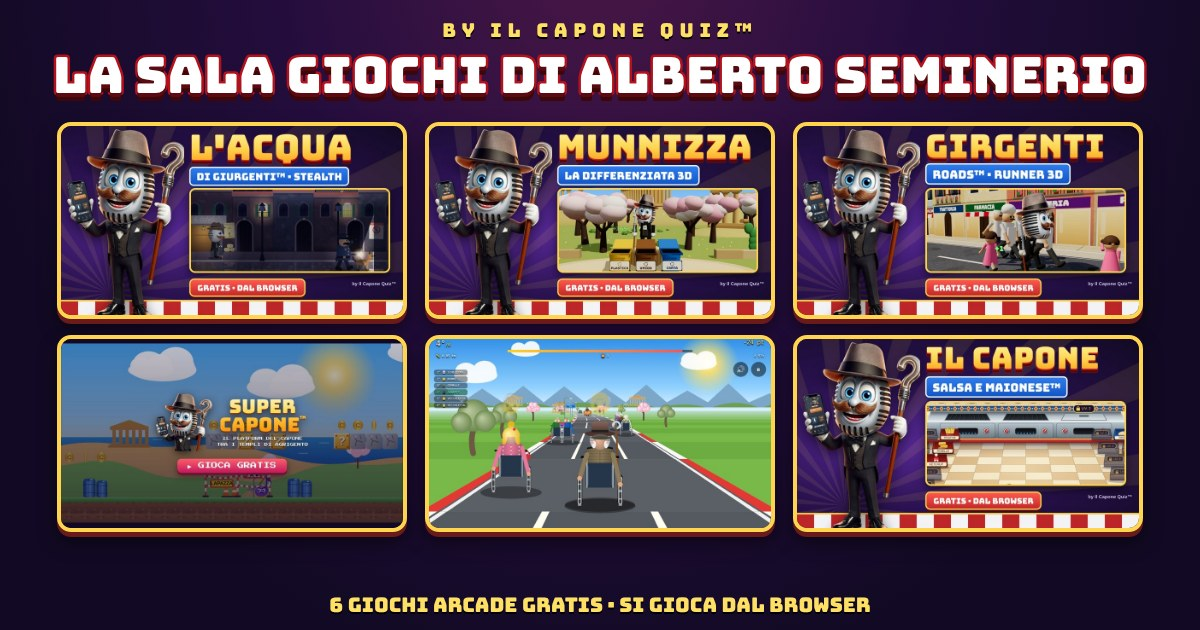
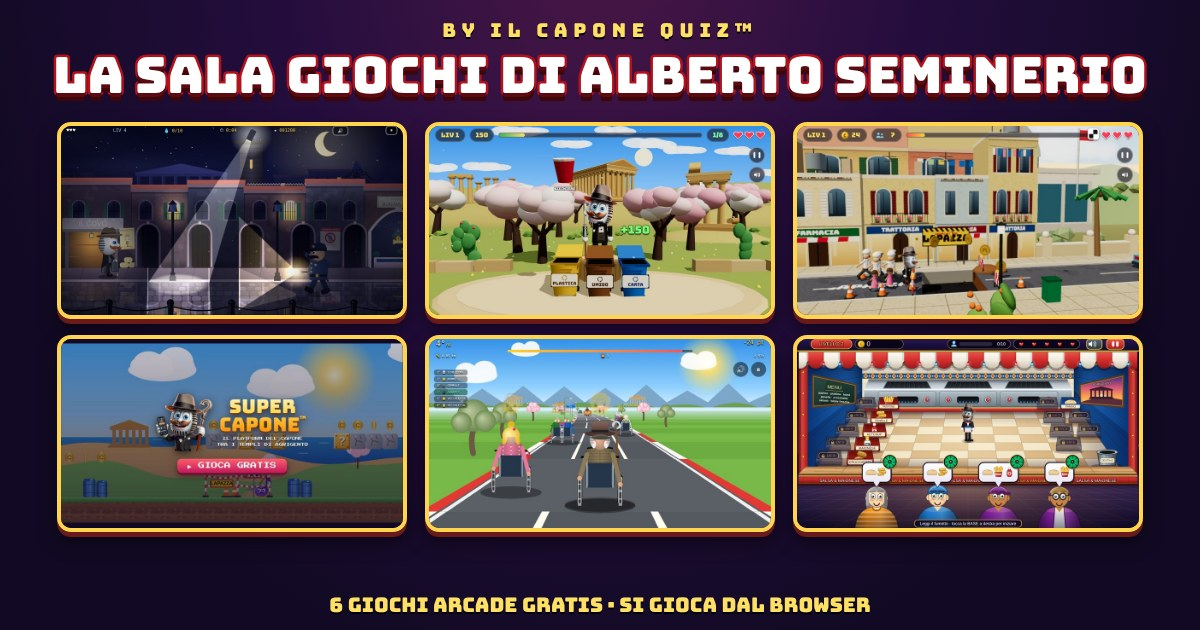
Add files via upload

diff --git a/index.html b/index.html
@@ -13,14 +13,15 @@
 <meta property="og:description" content="6 giochi arcade gratis, da giocare dal browser: stealth di notte, differenziata 3D, runner 3D, platform, corse in sedia a rotelle e il furgone dei panini del Capone.">
 <meta property="og:url" content="https://salagiochi.ilcaponequiz.win/"><meta property="og:image" content="https://salagiochi.ilcaponequiz.win/og-sala.jpg"><meta property="og:image:width" content="1200"><meta property="og:image:height" content="630"><meta property="og:image:alt" content="La sala giochi di Alberto Seminerio, by Il Capone Quiz: i 6 giochi arcade">
 <meta name="twitter:card" content="summary_large_image"><meta name="twitter:title" content="La sala giochi di Alberto Seminerio – giochi arcade gratis"><meta name="twitter:description" content="6 giochi arcade gratis da giocare dal browser."><meta name="twitter:image" content="https://salagiochi.ilcaponequiz.win/og-sala.jpg">
-<script type="application/ld+json">{"@context": "https://schema.org", "@type": "CollectionPage", "name": "La sala giochi di Alberto Seminerio", "url": "https://salagiochi.ilcaponequiz.win/", "inLanguage": "it", "description": "Tutti i giochi arcade gratis di Alberto Seminerio, by Il Capone Quiz.", "publisher": {"@type": "Person", "name": "Alberto Seminerio", "url": "https://albertoseminerio.com"}, "isPartOf": {"@type": "WebSite", "name": "Il Capone Quiz", "url": "https://ilcaponequiz.win"}, "mainEntity": {"@type": "ItemList", "itemListElement": [{"@type": "ListItem", "position": 1, "item": {"@type": "VideoGame", "name": "L'acqua di Giurgenti", "url": "https://acquadigiurgenti.ilcaponequiz.win/", "image": "https://salagiochi.ilcaponequiz.win/img/acqua-di-giurgenti.jpg", "description": "Gioco stealth di notte ad Agrigento: il Capone ruba l'acqua alla fontana Bonamuruni sotto gli occhi delle guardie. Classifica mensile mondiale!", "genre": "Arcade", "inLanguage": "it", "applicationCategory": "Game", "operatingSystem": "Web browser", "author": {"@type": "Person", "name": "Alberto Seminerio"}, "offers": {"@type": "Offer", "price": "0", "priceCurrency": "EUR"}}}, {"@type": "ListItem", "position": 2, "item": {"@type": "VideoGame", "name": "Munnizza", "url": "https://munnizza.ilcaponequiz.win/", "image": "https://salagiochi.ilcaponequiz.win/img/munnizza-v2.jpg", "description": "La differenziata in 3D tra i templi e i mandorli di Agrigento: trascina ogni rifiuto nel cassonetto giusto e scala la top 10 del mese!", "genre": "Arcade", "inLanguage": "it", "applicationCategory": "Game", "operatingSystem": "Web browser", "author": {"@type": "Person", "name": "Alberto Seminerio"}, "offers": {"@type": "Offer", "price": "0", "priceCurrency": "EUR"}}}, {"@type": "ListItem", "position": 3, "item": {"@type": "VideoGame", "name": "Girgenti Roads", "url": "https://girgentiroads.ilcaponequiz.win/", "image": "https://salagiochi.ilcaponequiz.win/img/girgenti-roads-v2.jpg", "description": "Il runner 3D per le strade di Agrigento: salta le buche LAPAZZA, porta in salvo la folla e scala la classifica mondiale!", "genre": "Arcade", "inLanguage": "it", "applicationCategory": "Game", "operatingSystem": "Web browser", "author": {"@type": "Person", "name": "Alberto Seminerio"}, "offers": {"@type": "Offer", "price": "0", "priceCurrency": "EUR"}}}, {"@type": "ListItem", "position": 4, "item": {"@type": "VideoGame", "name": "Super Capone", "url": "https://supercapone.ilcaponequiz.win/", "image": "https://salagiochi.ilcaponequiz.win/img/super-capone.jpg", "description": "Il platform arcade tra i templi di Agrigento: 20 mondi, 8 boss, potenziamenti e classifica mensile!", "genre": "Arcade", "inLanguage": "it", "applicationCategory": "Game", "operatingSystem": "Web browser", "author": {"@type": "Person", "name": "Alberto Seminerio"}, "offers": {"@type": "Offer", "price": "0", "priceCurrency": "EUR"}}}, {"@type": "ListItem", "position": 5, "item": {"@type": "VideoGame", "name": "Formula Anziani", "url": "https://formulaanziani.ilcaponequiz.win/", "image": "https://salagiochi.ilcaponequiz.win/img/formula-anziani.jpg", "description": "La corsa in sedia a rotelle per le strade di Agrigento: sfida i rivali e scala le classifiche!", "genre": "Arcade", "inLanguage": "it", "applicationCategory": "Game", "operatingSystem": "Web browser", "author": {"@type": "Person", "name": "Alberto Seminerio"}, "offers": {"@type": "Offer", "price": "0", "priceCurrency": "EUR"}}}, {"@type": "ListItem", "position": 6, "item": {"@type": "VideoGame", "name": "Il Capone, salsa e maionese", "url": "https://salsaemaionese.ilcaponequiz.win/", "image": "https://salagiochi.ilcaponequiz.win/img/il-capone-salsa-e-maionese-v2.jpg", "description": "Gestisci il furgone dei panini del Capone: ordini, piastra e mance. Quanti clienti riesci a servire?", "genre": "Arcade", "inLanguage": "it", "applicationCategory": "Game", "operatingSystem": "Web browser", "author": {"@type": "Person", "name": "Alberto Seminerio"}, "offers": {"@type": "Offer", "price": "0", "priceCurrency": "EUR"}}}]}}</script>
+<script type="application/ld+json">{"@context": "https://schema.org", "@type": "CollectionPage", "name": "La sala giochi di Alberto Seminerio", "url": "https://salagiochi.ilcaponequiz.win/", "inLanguage": "it", "description": "Tutti i giochi arcade gratis di Alberto Seminerio, by Il Capone Quiz.", "publisher": {"@type": "Person", "name": "Alberto Seminerio", "url": "https://albertoseminerio.com"}, "isPartOf": {"@type": "WebSite", "name": "Il Capone Quiz", "url": "https://ilcaponequiz.win"}, "mainEntity": {"@type": "ItemList", "itemListElement": [{"@type": "ListItem", "position": 1, "item": {"@type": "VideoGame", "name": "L'acqua di Giurgenti", "url": "https://acquadigiurgenti.ilcaponequiz.win/", "image": "https://salagiochi.ilcaponequiz.win/img/acqua-di-giurgenti-v3.jpg", "description": "Gioco stealth di notte ad Agrigento: il Capone ruba l'acqua alla fontana Bonamuruni sotto gli occhi delle guardie. Classifica mensile mondiale!", "genre": "Arcade", "inLanguage": "it", "applicationCategory": "Game", "operatingSystem": "Web browser", "author": {"@type": "Person", "name": "Alberto Seminerio"}, "offers": {"@type": "Offer", "price": "0", "priceCurrency": "EUR"}}}, {"@type": "ListItem", "position": 2, "item": {"@type": "VideoGame", "name": "Munnizza", "url": "https://munnizza.ilcaponequiz.win/", "image": "https://salagiochi.ilcaponequiz.win/img/munnizza-v3.jpg", "description": "La differenziata in 3D tra i templi e i mandorli di Agrigento: trascina ogni rifiuto nel cassonetto giusto e scala la top 10 del mese!", "genre": "Arcade", "inLanguage": "it", "applicationCategory": "Game", "operatingSystem": "Web browser", "author": {"@type": "Person", "name": "Alberto Seminerio"}, "offers": {"@type": "Offer", "price": "0", "priceCurrency": "EUR"}}}, {"@type": "ListItem", "position": 3, "item": {"@type": "VideoGame", "name": "Girgenti Roads", "url": "https://girgentiroads.ilcaponequiz.win/", "image": "https://salagiochi.ilcaponequiz.win/img/girgenti-roads-v3.jpg", "description": "Il runner 3D per le strade di Agrigento: salta le buche LAPAZZA, porta in salvo la folla e scala la classifica mondiale!", "genre": "Arcade", "inLanguage": "it", "applicationCategory": "Game", "operatingSystem": "Web browser", "author": {"@type": "Person", "name": "Alberto Seminerio"}, "offers": {"@type": "Offer", "price": "0", "priceCurrency": "EUR"}}}, {"@type": "ListItem", "position": 4, "item": {"@type": "VideoGame", "name": "Super Capone", "url": "https://supercapone.ilcaponequiz.win/", "image": "https://salagiochi.ilcaponequiz.win/img/super-capone.jpg", "description": "Il platform arcade tra i templi di Agrigento: 20 mondi, 8 boss, potenziamenti e classifica mensile!", "genre": "Arcade", "inLanguage": "it", "applicationCategory": "Game", "operatingSystem": "Web browser", "author": {"@type": "Person", "name": "Alberto Seminerio"}, "offers": {"@type": "Offer", "price": "0", "priceCurrency": "EUR"}}}, {"@type": "ListItem", "position": 5, "item": {"@type": "VideoGame", "name": "Formula Anziani", "url": "https://formulaanziani.ilcaponequiz.win/", "image": "https://salagiochi.ilcaponequiz.win/img/formula-anziani.jpg", "description": "La corsa in sedia a rotelle per le strade di Agrigento: sfida i rivali e scala le classifiche!", "genre": "Arcade", "inLanguage": "it", "applicationCategory": "Game", "operatingSystem": "Web browser", "author": {"@type": "Person", "name": "Alberto Seminerio"}, "offers": {"@type": "Offer", "price": "0", "priceCurrency": "EUR"}}}, {"@type": "ListItem", "position": 6, "item": {"@type": "VideoGame", "name": "Il Capone, salsa e maionese", "url": "https://salsaemaionese.ilcaponequiz.win/", "image": "https://salagiochi.ilcaponequiz.win/img/il-capone-salsa-e-maionese-v3.jpg", "description": "Gestisci il furgone dei panini del Capone: ordini, piastra e mance. Quanti clienti riesci a servire?", "genre": "Arcade", "inLanguage": "it", "applicationCategory": "Game", "operatingSystem": "Web browser", "author": {"@type": "Person", "name": "Alberto Seminerio"}, "offers": {"@type": "Offer", "price": "0", "priceCurrency": "EUR"}}}]}}</script>
 <style>
[1 lines of base64/hex data omitted]
 *{box-sizing:border-box;-webkit-tap-highlight-color:transparent}
 html,body{margin:0;background:#120a24;color:#fff;font-family:'Bungee','Arial Black',sans-serif}
 body{background:radial-gradient(ellipse at 50% -10%,#4a1747 0,#240d3d 38%,#120a24 75%) fixed;min-height:100vh;display:flex;flex-direction:column}
 .bulbs{height:14px;background:radial-gradient(circle,#ffe066 0 3px,transparent 4px) 0 50%/26px 14px repeat-x;filter:drop-shadow(0 0 5px #ffd54f);opacity:.9}
-header{text-align:center;padding:22px 14px 6px}
+header{text-align:center;padding:18px 14px 6px}
+.mascot{display:block;margin:0 auto 2px;height:clamp(130px,30vw,210px);width:auto;filter:drop-shadow(0 8px 14px rgba(0,0,0,.55))}
 .by{font-size:clamp(11px,2.6vw,16px);letter-spacing:.3em;color:#ffe066;text-shadow:0 2px 0 #000}
 h1{margin:.25em auto .1em;font-weight:400;max-width:900px;font-size:clamp(28px,7.4vw,72px);line-height:1;color:#fff;-webkit-text-stroke:clamp(2px,.45vw,6px) #b3121c;paint-order:stroke fill;text-shadow:0 .06em 0 #5a0a10,0 .13em 0 #3c060a,0 14px 30px rgba(0,0,0,.55)}
 .sub{font-size:clamp(12px,2.8vw,18px);opacity:.9;margin-top:.8em;text-shadow:0 2px 0 #000}
@@ -45,6 +46,7 @@ footer a{color:#ffd54f;text-decoration:underline}footer b{font-weight:400;color:
 </style></head><body>
 <div class="bulbs"></div>
 <header>
+  <img class="mascot" src="/img/capone-mascotte.webp" alt="Il Capone, la mascotte di Il Capone Quiz: un microfono con cappello e baffi" width="267" height="440" decoding="async">
   <div class="by">BY IL CAPONE QUIZ™</div>
   <h1>LA SALA GIOCHI DI ALBERTO SEMINERIO</h1>
   <div class="sub">Scegli il tuo gioco: sono tutti gratis e si giocano dal browser!</div>
@@ -53,17 +55,17 @@ footer a{color:#ffd54f;text-decoration:underline}footer b{font-weight:400;color:
 <main><section class="grid" aria-label="I giochi">
     <!-- GIOCO: L'acqua di Giurgenti -->
     <a class="card" href="https://acquadigiurgenti.ilcaponequiz.win/" target="_blank" rel="noopener">
-      <div class="ph"><img src="/img/acqua-di-giurgenti.jpg" width="800" height="450" alt="L'acqua di Giurgenti: il Capone con i bidoni, di notte, tra la guardia con la torcia e il cane ad Agrigento" loading="lazy" decoding="async"><span class="tag">NOVITÀ</span></div>
+      <div class="ph"><img src="/img/acqua-di-giurgenti-v3.jpg" width="800" height="450" alt="L'acqua di Giurgenti: il Capone con i bidoni, di notte, tra la guardia con la torcia e il cane ad Agrigento" loading="lazy" decoding="async"><span class="tag">NOVITÀ</span></div>
       <div class="tx"><h2>L'ACQUA DI GIURGENTI™</h2><p>Di notte, ad Agrigento, ruba l'acqua alla fontana Bonamuruni senza farti vedere dalle guardie: stealth, torce, fari e cani. Scala la classifica mondiale!</p><span class="go">GIOCA</span></div>
     </a>
     <!-- GIOCO: Munnizza -->
     <a class="card" href="https://munnizza.ilcaponequiz.win/" target="_blank" rel="noopener">
-      <div class="ph"><img src="/img/munnizza-v2.jpg" width="800" height="450" alt="Munnizza: il Capone e i cassonetti della differenziata davanti ai templi di Agrigento" loading="lazy" decoding="async"></div>
+      <div class="ph"><img src="/img/munnizza-v3.jpg" width="800" height="450" alt="Munnizza: il Capone e i cassonetti della differenziata davanti ai templi di Agrigento" loading="lazy" decoding="async"></div>
       <div class="tx"><h2>MUNNIZZA™</h2><p>La differenziata in 3D tra i templi e i mandorli in fiore: trascina ogni rifiuto nel cassonetto giusto e scala la top 10 del mese!</p><span class="go">GIOCA</span></div>
     </a>
     <!-- GIOCO: Girgenti Roads -->
     <a class="card" href="https://girgentiroads.ilcaponequiz.win/" target="_blank" rel="noopener">
-      <div class="ph"><img src="/img/girgenti-roads-v2.jpg" width="800" height="450" alt="Girgenti Roads: il Capone corre per le strade di Agrigento con la folla al seguito" loading="lazy" decoding="async"></div>
+      <div class="ph"><img src="/img/girgenti-roads-v3.jpg" width="800" height="450" alt="Girgenti Roads: il Capone corre per le strade di Agrigento con la folla al seguito" loading="lazy" decoding="async"></div>
       <div class="tx"><h2>GIRGENTI ROADS™</h2><p>Il runner 3D per le strade di Agrigento: salta le buche LAPAZZA, porta in salvo la folla e scala la classifica mondiale!</p><span class="go">GIOCA</span></div>
     </a>
     <!-- GIOCO: Super Capone -->
@@ -78,7 +80,7 @@ footer a{color:#ffd54f;text-decoration:underline}footer b{font-weight:400;color:
     </a>
     <!-- GIOCO: Il Capone, salsa e maionese -->
     <a class="card" href="https://salsaemaionese.ilcaponequiz.win/" target="_blank" rel="noopener">
-      <div class="ph"><img src="/img/il-capone-salsa-e-maionese-v2.jpg" width="800" height="450" alt="Il Capone, salsa e maionese: il furgone dei panini con il cliente e il suo ordine" loading="lazy" decoding="async"></div>
+      <div class="ph"><img src="/img/il-capone-salsa-e-maionese-v3.jpg" width="800" height="450" alt="Il Capone, salsa e maionese: il furgone dei panini con il cliente e il suo ordine" loading="lazy" decoding="async"></div>
       <div class="tx"><h2>IL CAPONE, SALSA E MAIONESE™</h2><p>Gestisci il furgone dei panini del Capone: ordini, piastra e mance. Quanti clienti riesci a servire?</p><span class="go">GIOCA</span></div>
     </a>
     <!-- Per aggiungere un gioco: copia un blocco "GIOCO" qui sopra e cambia indirizzo, immagine (cartella /img), nome e descrizione -->
